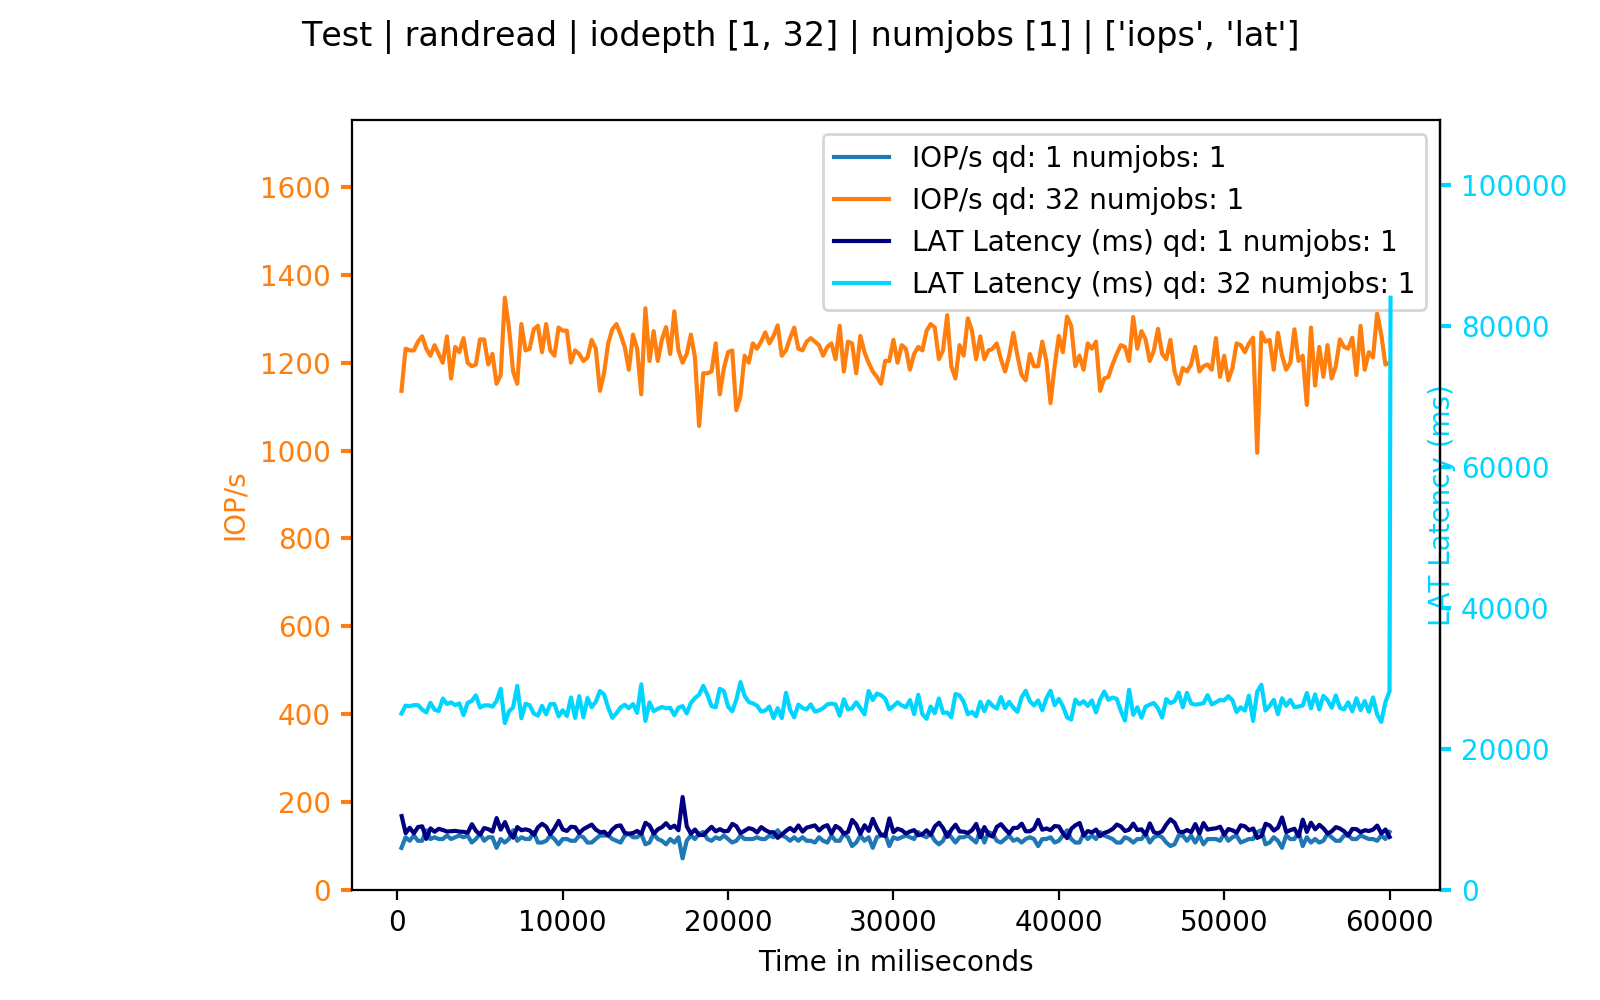
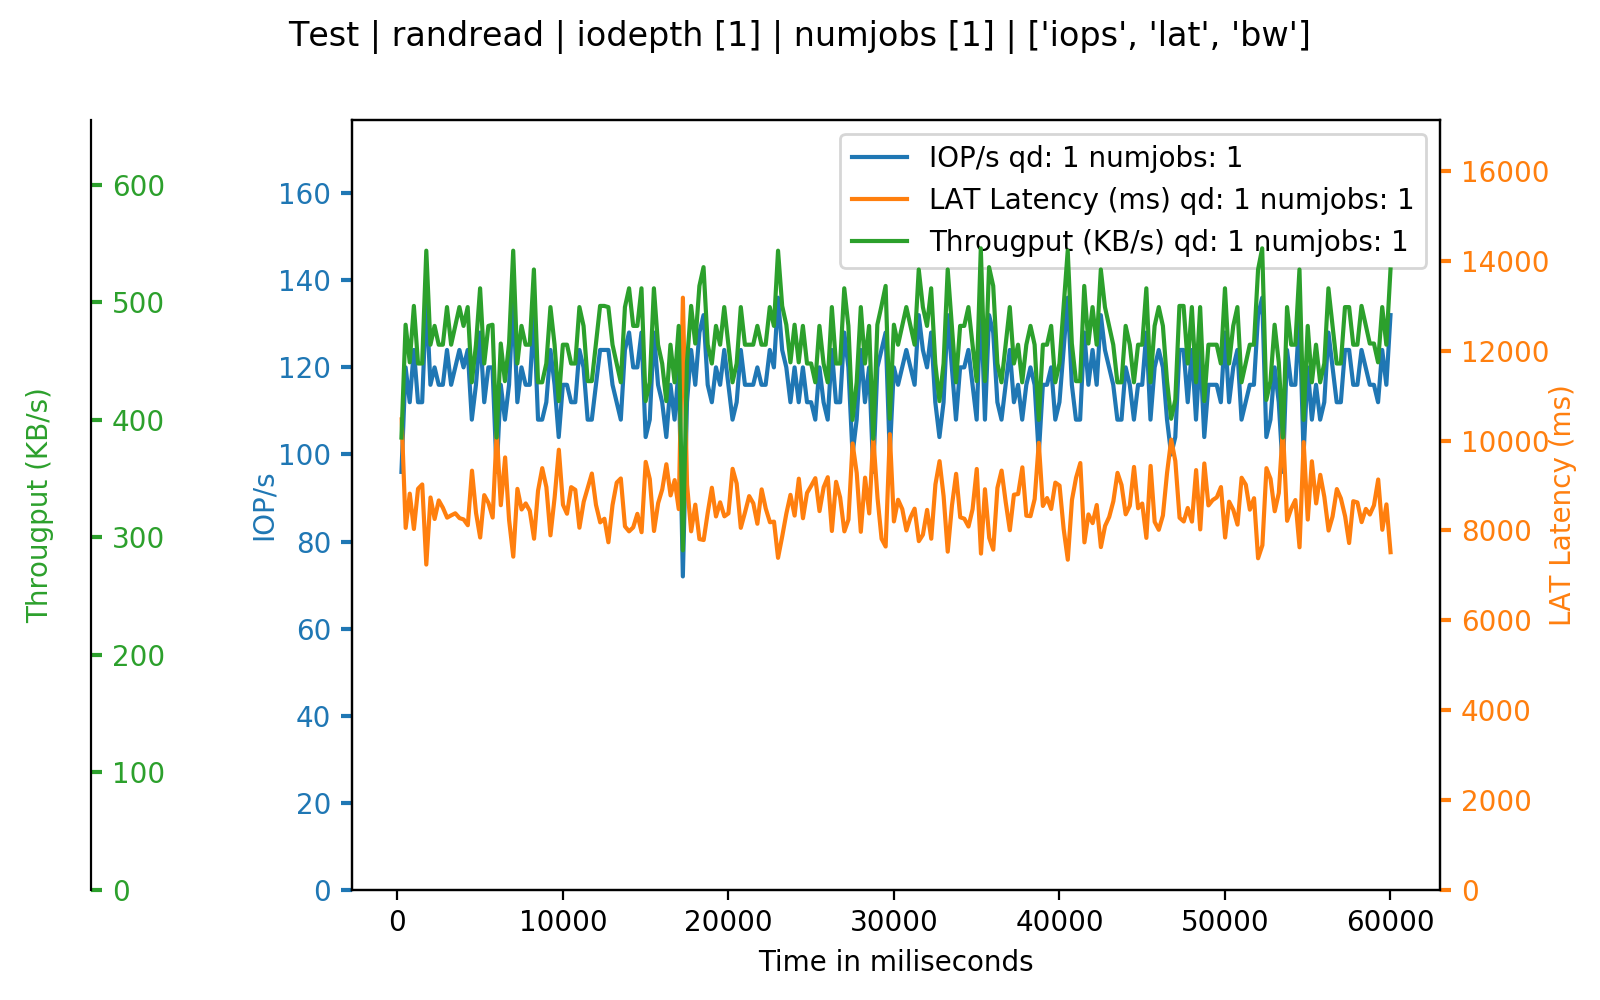
Lot of cleanup in layouting

diff --git a/fio_plot/fiolib/graph2d.py b/fio_plot/fiolib/graph2d.py
@@ -33,16 +33,23 @@ def chart_2d_log_data(config, data):
     axes = {}
     lines = []
     labels = []
+
+    colors = supporting.get_colors()
+
     for item in data:
+        datalabel = f"{item['type']}_label"
+        axes[datalabel] = (supporting.lookupTable(item['type'])[0])
+
         if item['type'] not in axes.keys():
             if counter == 1:
                 axes[item['type']] = host
             else:
                 axes[item['type']] = host.twinx()
+            axes[f"{item['type']}_pos"] = f"c{counter}"
 
-            if counter == 2:
+            if counter == 3:
                 axes[item['type']].spines["right"].set_position(
-                    ("axes", -0.28))
+                    ("axes", -0.24))
 
         if counter % 3 == 0:
             make_patch_spines_invisible(axes[item['type']])
@@ -50,34 +57,42 @@ def chart_2d_log_data(config, data):
 
         datakey = f"{item['type']}_data"
         axes[datakey] = list(zip(*item['data']))
-        datalabel = f"{item['type']}_label"
-        axes[datalabel] = (supporting.lookupTable(item['type'])[0])
-
-        #[pprint.pprint(x['type']) for x in data]
 
         dataplot = f"{item['type']}_plot"
         unpacked = list(zip(*item['data']))
         xvalues = unpacked[0]
         yvalues = unpacked[1]
+
+        # Determine max / min values to scale graph axis
         if item['type'] == 'bw':
             maximum = max(yvalues) * 1.2
         else:
             maximum = max(yvalues) * 1.3
-        color = axes[datalabel]['color']
+
+        # PLOT
         axes[dataplot] = axes[item['type']].plot(
-            xvalues, yvalues, label=axes[datalabel]['ylabel'])[0]
+            xvalues, yvalues, colors.pop(0), label=axes[datalabel]['ylabel'])[0]
         pprint.pprint(axes[dataplot])
         axes[item['type']].set_ylim([0, maximum])
         host.set_xlabel('Time in miliseconds')
 
-        if counter % 3 == 0:
-            axes[item['type']].set_ylabel(
-                axes[datalabel]['ylabel'], rotation='vertical', labelpad=-50)
-        else:
-            axes[item['type']].set_ylabel(axes[datalabel]['ylabel'])
+        # Label Axis
+        # if counter % 3 == 0:
+        position = supporting.get_label_position(axes[f"{item['type']}_pos"])
+        axes[item['type']].set_ylabel(
+            axes[datalabel]['ylabel'],
+            rotation=axes[datalabel]['label_rot'],
+            labelpad=position)
+        # if counter % 4 == 0 or counter % 5 == 0:
+        #     axes[item['type']].set_ylabel(
+        #         axes[datalabel]['ylabel'], labelpad=0)
+        # else:
+        #     axes[item['type']].set_ylabel(axes[datalabel]['ylabel'])
 
+        # Get color from lines to use for legend
         axes[item['type']].yaxis.label.set_color(axes[dataplot].get_color())
 
+        # Set ticks
         tkw = dict(size=4, width=1.5)
         if counter == 0:
             host.tick_params(axis='x', **tkw)
@@ -85,6 +100,7 @@ def chart_2d_log_data(config, data):
             axes[item['type']].tick_params(
                 axis='y', colors=axes[dataplot].get_color(), **tkw)
 
+        # Create legend
         lines.append(axes[dataplot])
         labels.append(
             f"{axes[datalabel]['ylabel']} qd: {item['iodepth']} numjobs: {item['numjobs']}")

diff --git a/fio_plot/fiolib/supporting.py b/fio_plot/fiolib/supporting.py
@@ -25,16 +25,45 @@ def scaling(minimum):
         return {'scale_factor': 1000, 'metric': r'$Latency\ in\ ms\ $'}
 
 
+def get_colors():
+    return [
+        'tab:blue',
+        'tab:orange',
+        'tab:green',
+        'tab:red',
+        'tab:purple',
+        'tab:brown',
+        'tab:pink',
+        'tab:olive',
+        'tab:cyan',
+        'darkgreen',
+        'cornflowerblue',
+        'deepping',
+        'red',
+        'gold',
+        'darkcyan'
+    ]
+
+
+def get_label_position(axis):
+    positions = {"c1": 0, "c2": 0, "c3": -50}
+    return positions[axis]
+
+
 def lookupTable(metric):
 
-    lookup = [{'type': 'iops', 'ylabel': 'IOP/s', 'color': 'tab:blue'},
-              {'type': 'bw',
-                  'ylabel': 'Througput (KB/s)', 'color': 'tab:orange'},
-              {'type': 'lat',
-                  'ylabel': 'LAT Latency (ms)', 'color': 'tab:green'},
-              {'type': 'slat',
-                  'ylabel': 'SLAT Latency (ms)', 'color': 'tab:red'},
-              {'type': 'clat',
-                  'ylabel': 'CLAT Latency (ms)', 'color': 'tab:purple'},
-              ]
+    lookup = [
+        {'type': 'iops', 'ylabel': 'IOP/s', 'color': 'tab:blue',
+            'label_pos': 0, 'label_rot': 'vertical'},
+        {'type': 'bw', 'ylabel': 'Througput (KB/s)', 'color': 'tab:orange',
+         'label_pos': -50, 'label_rot': 'vertical'},
+        {'type': 'lat', 'ylabel': 'LAT Latency (ms)', 'color': 'tab:green',
+         'label_pos': 0, 'label_rot': 'vertical'},
+        {'type': 'slat',
+            'ylabel': 'SLAT Latency (ms)',
+            'color': 'tab:red', 'label_pos': 0, 'label_rot': 'vertical'},
+        {'type': 'clat', 'ylabel': 'CLAT Latency (ms)', 'color': 'tab:purple',
+         'label_pos': 0, 'label_rot': 'vertical'},
+
+    ]
     return [x for x in lookup if x['type'] == metric]
